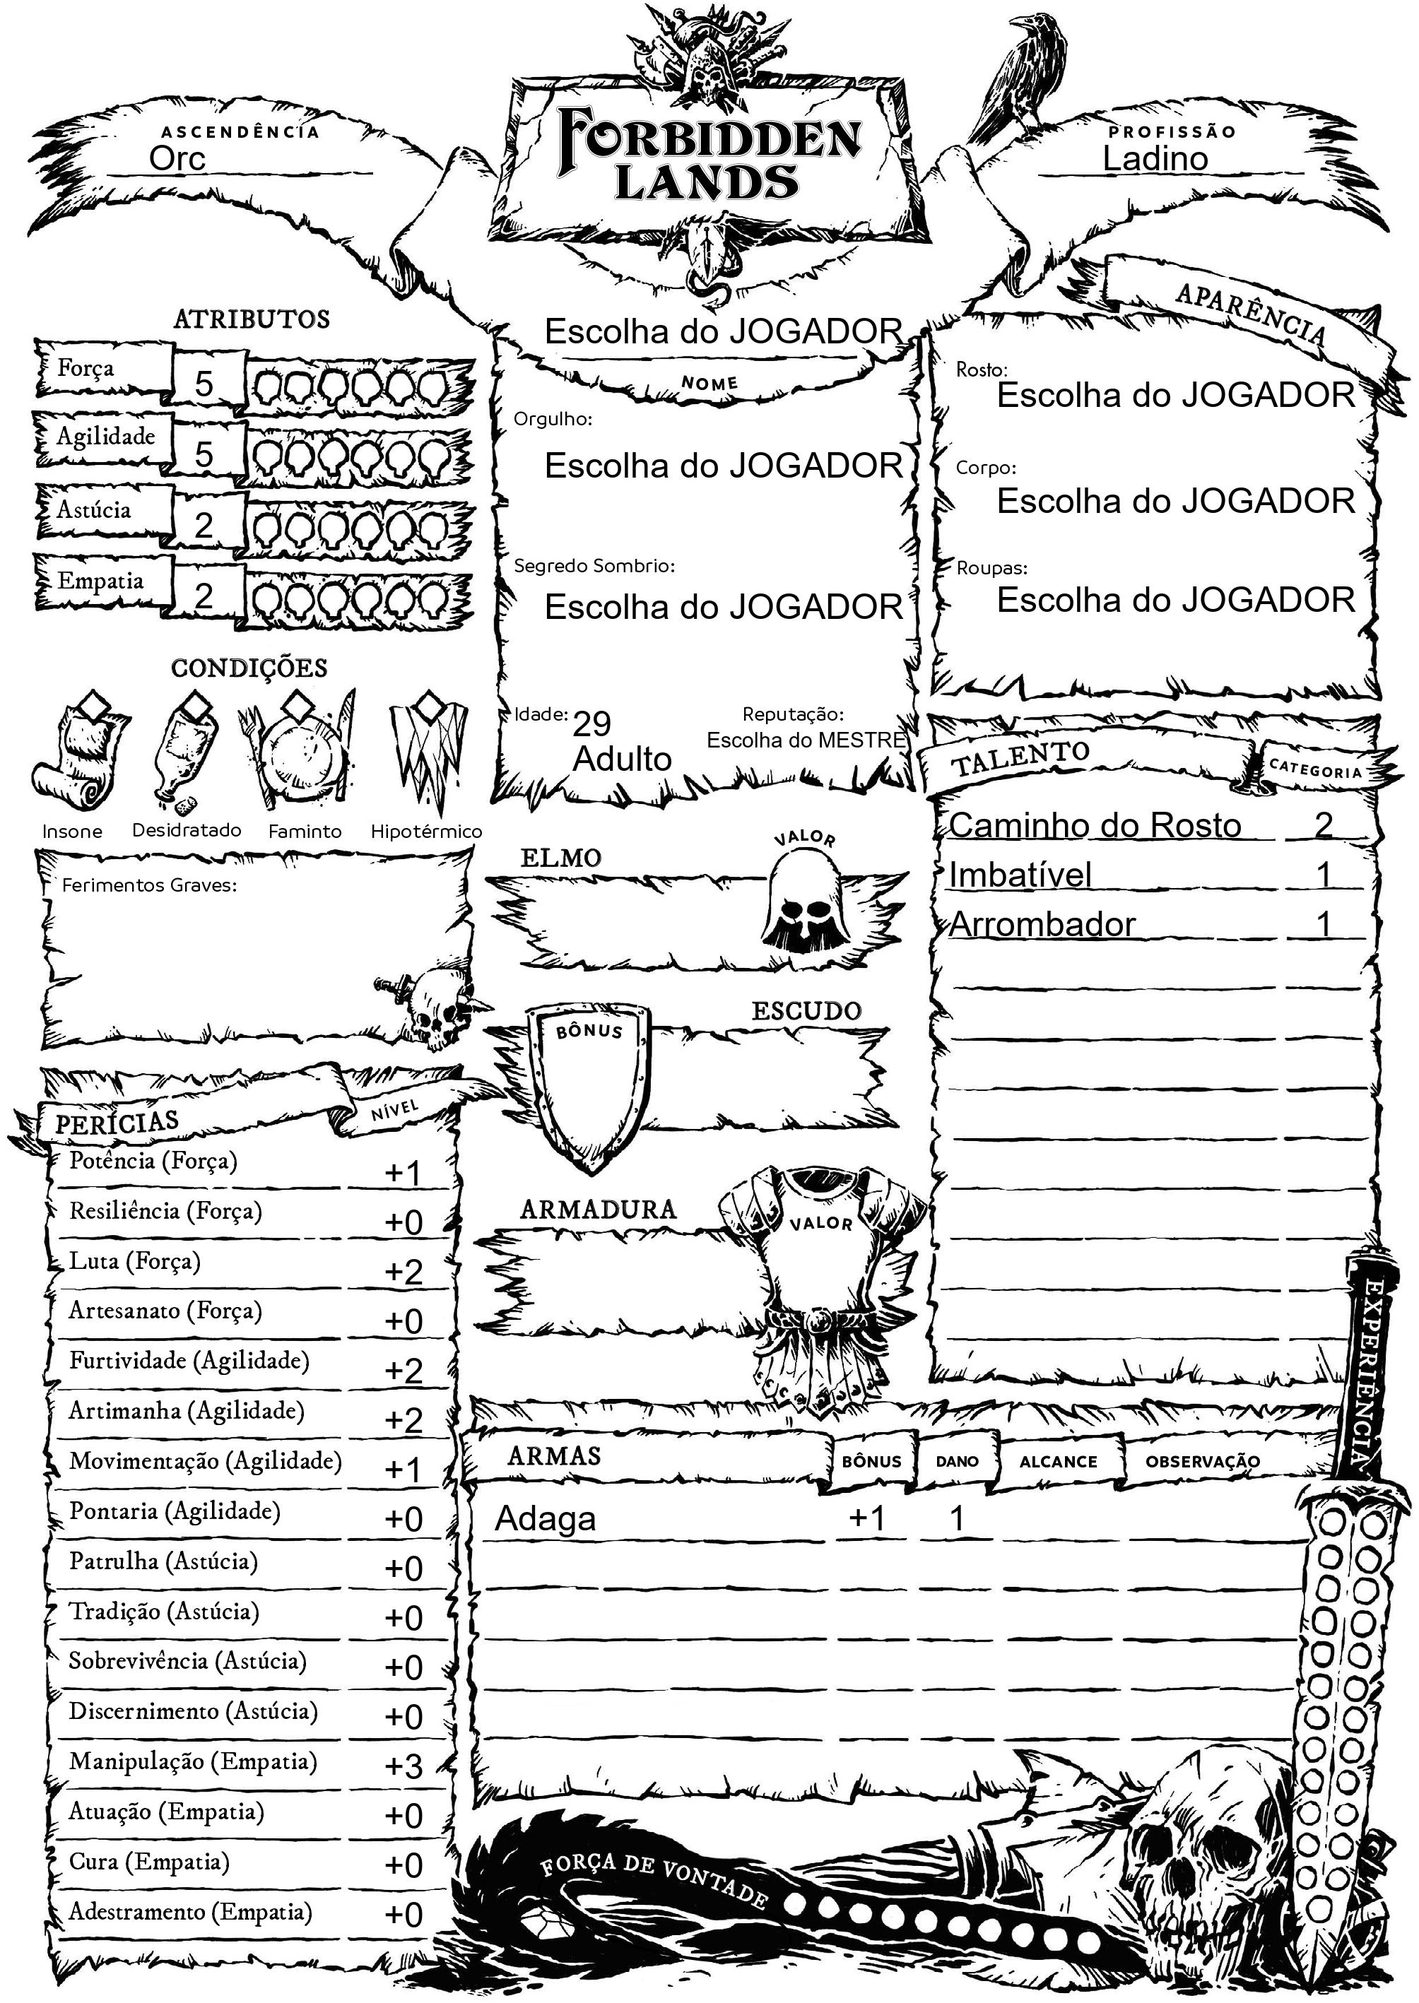
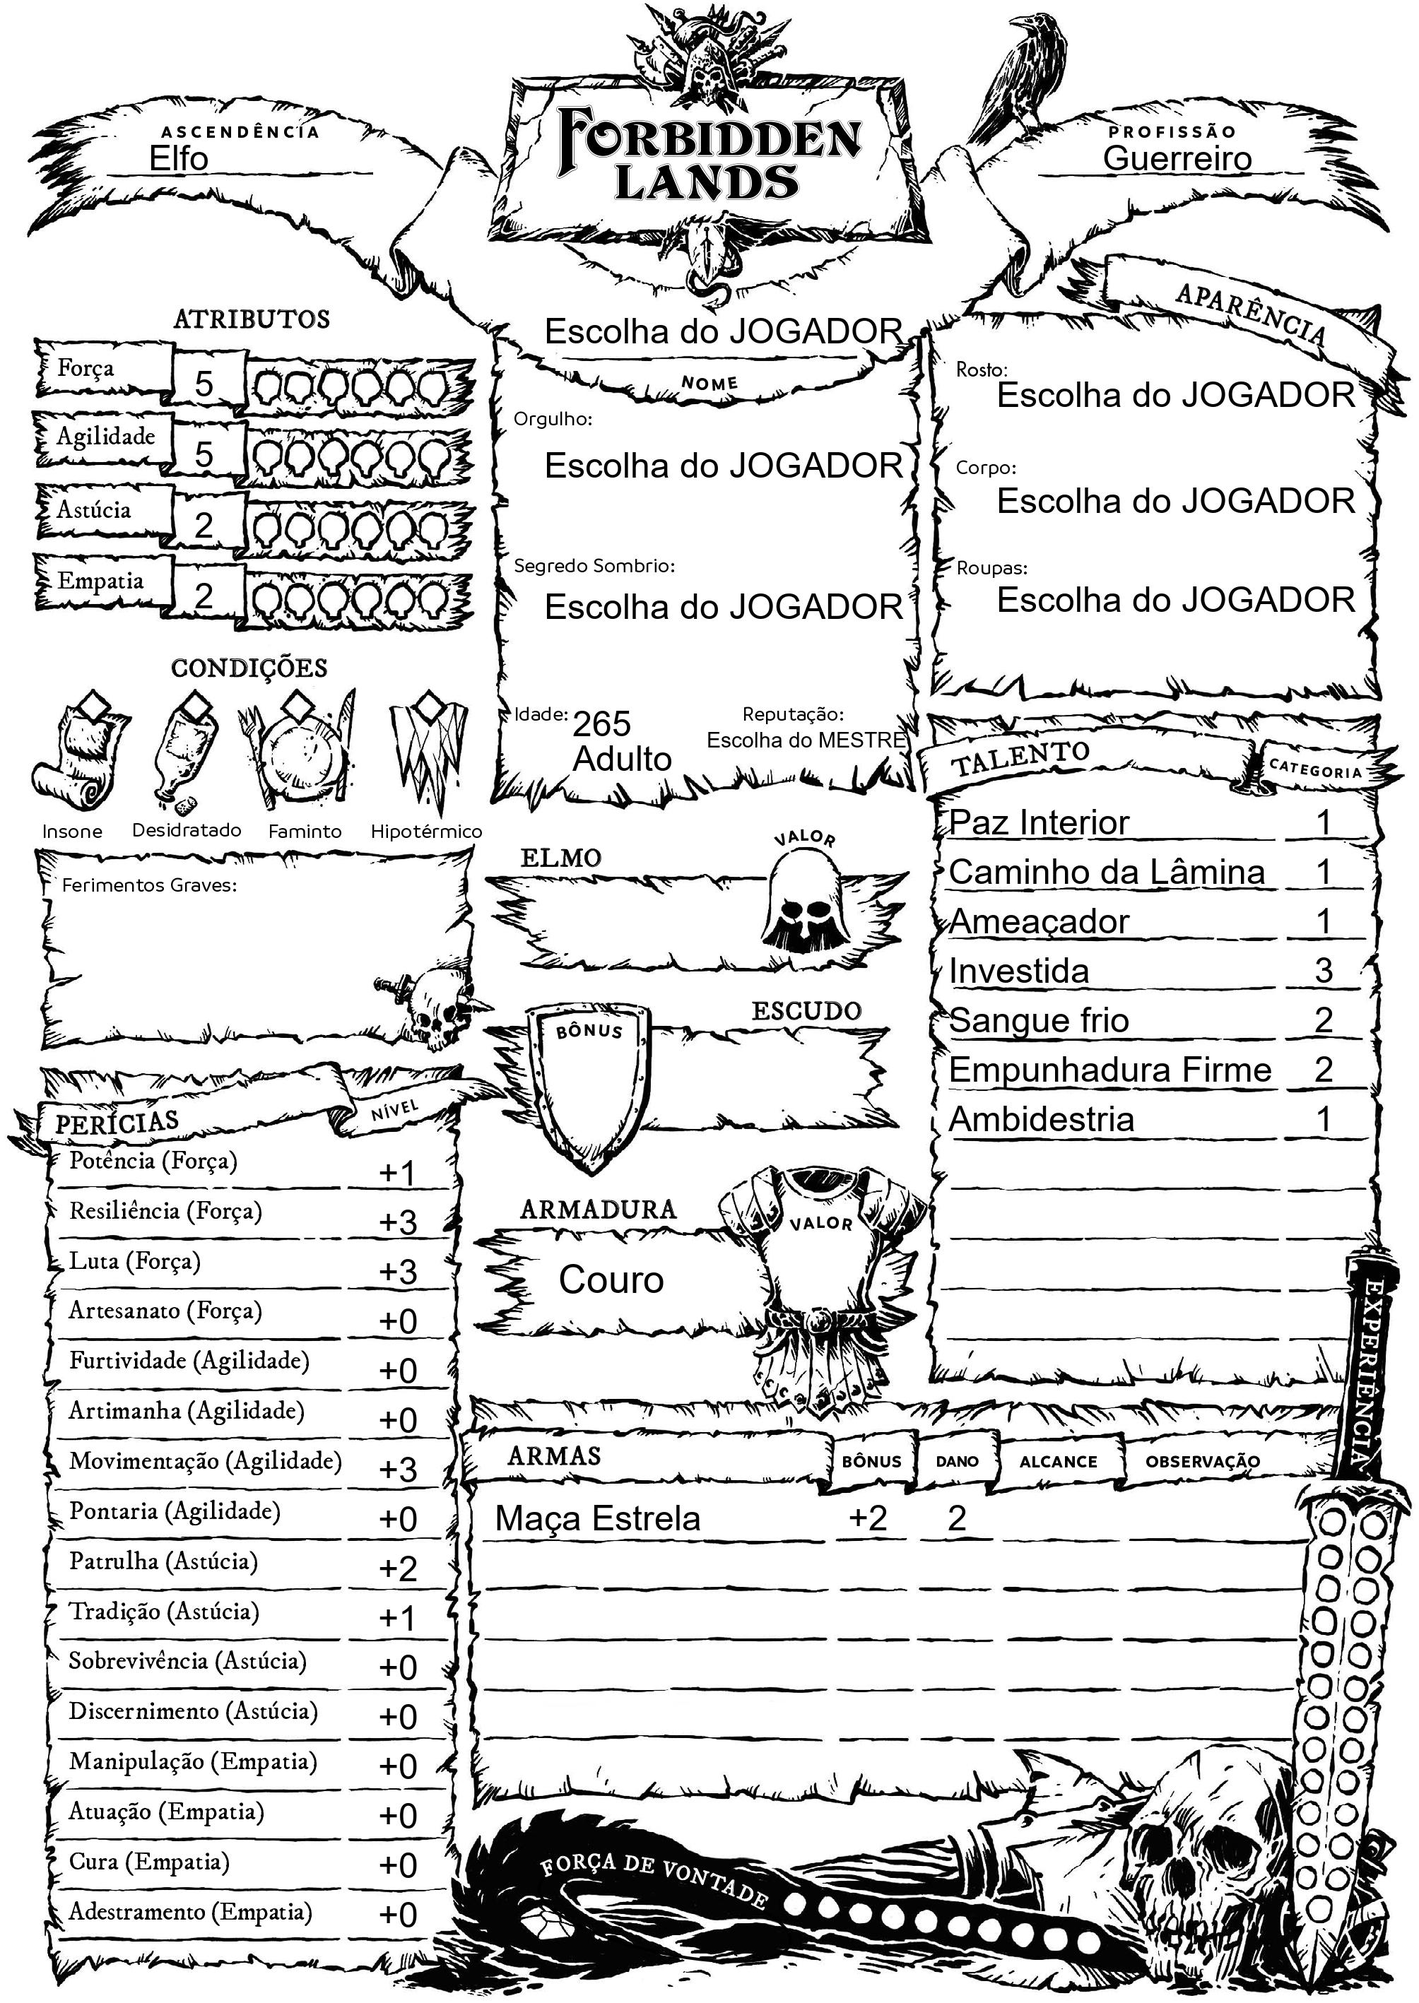
Aprimoramentos na Geração de Dados e Conclusão da Primeira Página da Ficha Foram corrigidos bugs que afetavam a geração de informações da classe Rider. Além disso, implementei a exibição das armaduras para as classes que as possuem na ficha. E por fim, concluí de forma geral a primeira página da fic

diff --git a/Modulos/util.py b/Modulos/util.py
@@ -257,19 +257,24 @@ def gerar_arma(classe):
     global artefato_musical_escolhido, arma_escolhida
     armas_disponiveis = classe_info[classe]["equipamentos"]["Arma"]
     arma_escolhida = None
+    armas_escolhidas = None
 
     # Verificar se a classe tem armas disponíveis
     if armas_disponiveis:
         if classe == "Rider":
-            arma_escolhida = random.sample(armas_disponiveis, 2)
+            armas_escolhidas = random.sample(armas_disponiveis, 2)
+            arma_escolhida = None
 
-            while ["Lança", "Machadinha"] in arma_escolhida or ["Arco Curto", "Funda"] in arma_escolhida:
-                arma_escolhida = random.sample(armas_disponiveis, 2)
+            while ["Lança", "Machadinha"] in armas_escolhidas or ["Arco Curto", "Funda"] in armas_escolhidas:
+                armas_escolhidas = random.sample(armas_disponiveis, 2)
+
+            
 
             # Se chegou aqui, então as armas escolhidas são válidas
-            equipamentos.extend(arma_escolhida)
+            equipamentos.extend(armas_escolhidas)
 
         elif classe == "Bardo":
+            armas_escolhidas = None
             arma_escolhida = classe_info[classe]["equipamentos"]["Arma"][0]  # Pega o primeiro item da lista
             artefato_musical_disponiveis = classe_info[classe]["equipamentos"]["Artefato Musical"]
             artefato_musical_escolhido = random.choice(artefato_musical_disponiveis)
@@ -278,14 +283,19 @@ def gerar_arma(classe):
             equipamentos.insert(1, artefato_musical_escolhido)
 
         elif classe == "Guerreiro":
+            armas_escolhidas = None
             arma_escolhida = random.choice(armas_1m_lista)
             equipamentos.append(arma_escolhida)
 
         else:
+            armas_escolhidas = None
             arma_escolhida = random.choice(armas_disponiveis)
             equipamentos.append(arma_escolhida)
 
-        print(f"Arma escolhida 1 etapa: {arma_escolhida}")
+        if arma_escolhida!= None:
+            print(f"Arma escolhida 1 etapa: {arma_escolhida}")
+        else:
+            print(f"Armas escolhidas 1 etapa: {armas_escolhidas}")
 
         if arma_escolhida in ["Arco"]:
             arma_escolhida = random.choice(["Arco Curto", "Arco Longo"])
@@ -298,11 +308,15 @@ def gerar_arma(classe):
             equipamentos.remove("Lança")
             equipamentos.append(arma_escolhida)
 
-        print(f"Arma escolhida 2 etapa: {arma_escolhida}")
+        if arma_escolhida != None:
+            print(f"Arma escolhida 2 etapa: {arma_escolhida}")
+        else:
+            print(f"Armas escolhidas 2 etapa: {armas_escolhidas}")
+
         if "artefato_musical" in equipamentos:
             print(f"Artefato musical escolhido: {artefato_musical_escolhido}")
 
-    return arma_escolhida
+    return arma_escolhida, armas_escolhidas
 
 # Inicialize um dicionario vazio para mapear os talentos e os niveis deles
 talentos_e_niveis = {}
@@ -318,6 +332,8 @@ def dividir_XP(talentos_escolhidos, pericias_distribuidas, classe, pericias):
     #Declarando lista de pericias e talentos para o while que vai acontecer
     pericias_disponiveis = list(pericias.keys())
     talentos_disponiveis = list(talentos_gerais[classe])
+
+    
 
     # Variáveis para controlar se todas as opções estão no máximo
     todas_pericias_maximo = False
@@ -396,7 +412,7 @@ def dividir_XP(talentos_escolhidos, pericias_distribuidas, classe, pericias):
 
 
 # Funcao para gerar informacoes da ficha
-def gerar_info_ficha(classe, raca, atributos_chave, idade, faixa_etaria, atributos_randomizados, talentos_escolhidos, pericias_distribuidas):
+def gerar_info_ficha(classe, raca, atributos_chave, idade, faixa_etaria, atributos_randomizados, talentos_escolhidos, pericias_distribuidas, armas_escolhidas):
 
     # Rolando quantidade de prata
     prata_rolada = rolar_dados_prata(classe_info[classe]["dados_recurso"]["Prata"])
@@ -410,10 +426,17 @@ def gerar_info_ficha(classe, raca, atributos_chave, idade, faixa_etaria, atribut
         # Vai ser randomizado todos os itens, inclusive as duas flechas que são os 2 itens iniciais da lista de comercio
         itens_randomizados = random.sample(itens_comercio, quantidade_itens)  # Randomiza eles
         equipamentos.extend(itens_randomizados)  # adiciona eles nos equipamentos
+
+    elif armas_escolhidas in ["Arco Curto", "Arco Longo"]:
+        # Vai ser randomizado todos os itens, inclusive as duas flechas que são os 2 itens iniciais da lista de comercio
+        itens_randomizados = random.sample(itens_comercio, quantidade_itens)  # Randomiza eles
+        equipamentos.extend(itens_randomizados)  # adiciona eles nos equipamentos
+
     else:
         itens_randomizados = random.sample(itens_comercio[2:], quantidade_itens)  # Randomiza eles só que como não tem o arco, ele não considera os 2 itens de flechas
         equipamentos.extend(itens_randomizados)  # adiciona eles nos equipamentos
 
+    
     print(f"itens_randomizados: {itens_randomizados,}")
 
     # Criando variaveis Necessarias
@@ -422,6 +445,8 @@ def gerar_info_ficha(classe, raca, atributos_chave, idade, faixa_etaria, atribut
     info_armaduras = lista_armaduras.get("armadura_disponivel")
     Dx_comida = classe_info[classe]['dados_recurso']['Comida']
     Dx_agua = classe_info[classe]['dados_recurso']['Água']
+    armas_escolhidas_1 = None
+    armas_escolhidas_2 = None
 
     # Printando a ficha do personagem
     print("\n--- Ficha do personagem ---")
@@ -443,14 +468,14 @@ def gerar_info_ficha(classe, raca, atributos_chave, idade, faixa_etaria, atribut
     print(f"Equipamentos: {', '.join(equipamentos)}")
     # Dividindo a variavel arma escolhida em dois ja que o Rider tem duas armas
     if classe == "Rider":
-        arma_escolhida_1, arma_escolhida_2 = arma_escolhida  # Separando a variavel em 2
+        armas_escolhidas_1, armas_escolhidas_2 = armas_escolhidas  # Separando a variavel em 2
 
-        info_arma_1 = lista_armas_FINAL.get(arma_escolhida_1)  # Criando as infos de cada
-        info_arma_2 = lista_armas_FINAL.get(arma_escolhida_2)  # Criando as infos de cada
+        info_arma_1 = lista_armas_FINAL.get(armas_escolhidas_1)  # Criando as infos de cada
+        info_arma_2 = lista_armas_FINAL.get(armas_escolhidas_2)  # Criando as infos de cada
 
-        print(f"Sua 1º arma:", arma_escolhida_1)
+        print(f"Sua 1º arma:", armas_escolhidas_1)
         print(f"Infos da sua 1º arma:", info_arma_1)
-        print(f"Sua 2º arma: ", arma_escolhida_2)
+        print(f"Sua 2º arma: ", armas_escolhidas_2)
         print(f"Infos da sua 2º arma:", info_arma_2)
 
     else:
@@ -477,3 +502,6 @@ def gerar_info_ficha(classe, raca, atributos_chave, idade, faixa_etaria, atribut
 
     print(f"Prata: {prata_rolada}")
     print("--------------------------\n")
+
+    if classe == "Rider":
+        return armas_escolhidas_1, armas_escolhidas_2, info_arma_1, info_arma_2

diff --git a/Modulos/UtilMain.py b/Modulos/UtilMain.py
@@ -11,7 +11,8 @@ def Ficha_Random():
     print(f"Raca escolhida: {raca}")
 
     # Gerar classe aleatoria
-    classe = gerar_classe(raca,racas_info,classes)
+    #classe = gerar_classe(raca,racas_info,classes)
+    classe = "Guerreiro"
     print(f"Classe: {classe}")
 
     # Funcao para obter atributos chave
@@ -27,9 +28,16 @@ def Ficha_Random():
     pericias_distribuidas = distribuir_pontos_pericia(faixa_etaria, classe)
     print(f"Pericias distribuidas: {pericias_distribuidas}")
 
-    # Gerar arma
-    arma_escolhida = gerar_arma(classe)
-    print(f"arma_escolhida_final: {arma_escolhida}")
+    #Gerar armas
+    arma_escolhida, armas_escolhidas = gerar_arma(classe)
+
+    '''
+    if classe == "Rider":
+        armas_escolhidas = gerar_arma(classe)
+        print(f"arma_escolhida_final: {armas_escolhidas}")
+    else:
+        arma_escolhida = gerar_arma(classe)
+        print(f"arma_escolhida_final: {arma_escolhida}")'''
 
     # Gerar talentos
     talentos_escolhidos = escolher_talentos(classe, raca, faixa_etaria)
@@ -44,14 +52,31 @@ def Ficha_Random():
     else:
         pass
 
+    info_armas = None
+    info_armas_formatado = None
+    if classe != "Rider":
+        info_armas = lista_armas_FINAL.get(arma_escolhida)
+        info_armas_formatado = f"{info_armas['Bonus']} {info_armas['Dano']}"
+    
+
     prata_rolada = rolar_dados_prata(classe_info[classe]["dados_recurso"]["Prata"])
-    info_armas = lista_armas_FINAL.get(arma_escolhida)
     Dx_comida = classe_info[classe]['dados_recurso']['Comida']
     Dx_agua = classe_info[classe]['dados_recurso']['Água']
-    info_armas_formatado = f"{info_armas['Bonus']} {info_armas['Dano']}"
 
-    # Gerar ficha
-    gerar_info_ficha(classe, raca, atributos_chave, idade, faixa_etaria, atributos_randomizados, talentos_escolhidos, pericias_distribuidas)
+
+    if classe == "Rider":
+        # Gerar ficha com return
+        arma_escolhida_1, arma_escolhida_2, info_arma_1, info_arma_2 = gerar_info_ficha(classe, raca, atributos_chave,
+                                                      idade, faixa_etaria, atributos_randomizados, talentos_escolhidos,
+                                                                                pericias_distribuidas, armas_escolhidas)
+        info_armas_formatado_1 = f"{info_arma_1['Bonus']} {info_arma_1['Dano']}"
+        info_armas_formatado_2 = f"{info_arma_2['Bonus']} {info_arma_2['Dano']}"
+        bonus_arma_1, dano_arma_1 = info_armas_formatado_1.split()
+        bonus_arma_2, dano_arma_2 = info_armas_formatado_2.split()
+
+    else:
+        gerar_info_ficha(classe, raca, atributos_chave,idade, faixa_etaria, atributos_randomizados,talentos_escolhidos,
+                         pericias_distribuidas, armas_escolhidas)
 
 #=============================================================================================================================================
 
@@ -77,7 +102,9 @@ def Ficha_Random():
     pericias_distribuidas = {k.lower(): v for k, v in pericias_distribuidas.items()}
     print(pericias_distribuidas)
 
-    bonus_arma, dano_arma = info_armas_formatado.split()
+    if classe != "Rider":
+        bonus_arma, dano_arma = info_armas_formatado.split()
+
 
 #=======================================================================================================================
 
@@ -117,9 +144,21 @@ def Ficha_Random():
             valor_formatado = f"+{valor_pericia}"
             adicionar_texto_na_ficha(imagem, valor_formatado, cord)
 
-        elif variavel == "info_armas_cord":
+        elif variavel == "info_armas_cord" and classe != "Rider":
             valor_formatado = f"{bonus_arma}      {dano_arma}"
             adicionar_texto_na_ficha(imagem, valor_formatado, cord)
+
+        elif variavel == "info_armas_cord" and classe == "Rider":
+            espacamento = 70
+            valor_formatado_1 = f"{bonus_arma_1}      {dano_arma_1}"
+            adicionar_texto_na_ficha(imagem, valor_formatado_1, cord)
+            valor_formatado_2 = f"{bonus_arma_2}      {dano_arma_2}"
+            adicionar_texto_na_ficha(imagem, valor_formatado_2, cord, espacamento)
+
+        elif variavel == "arma_escolhida_cord" and classe == "Rider":
+            espacamento = 70
+            adicionar_texto_na_ficha(imagem, arma_escolhida_1, cord)
+            adicionar_texto_na_ficha(imagem, arma_escolhida_2, cord, espacamento)
 
         else:
             # Obtenha a chave correspondente em vars
@@ -130,6 +169,12 @@ def Ficha_Random():
             if not isinstance(valor, (list, dict)):
                 adicionar_texto_na_ficha(imagem, str(valor), cord)
 
+    #Por a armadura do guerreiro na ficha
+    if classe == "Guerreiro":
+        Armadura_couro_str = ("Couro")
+        escrever_armadura(imagem, Armadura_couro_str, coordenadas_armadura)
+
+    #Por na ficha onde a escolha vai ser do jogador ou do mestre
     escolha_do_jogador = 'Escolha do JOGADOR'
     escolha_do_mestre = 'Escolha do MESTRE'
     escrever_texto_em_varias_coordenadas_JOGADOR(imagem, escolha_do_jogador, coordenadas_pag1_User)
@@ -143,9 +188,4 @@ def Ficha_Random():
 
     # Feche a imagem
     imagem.close()
-#=============================================================================================================================================
-
-
-
-
 #=============================================================================================================================================

diff --git a/Modulos/FichaCoordenadas.py b/Modulos/FichaCoordenadas.py
@@ -10,33 +10,34 @@ coordenadas_pag1 = {
     "Inteligência_cord": (275, 715),
     "Empatia_cord": (275, 815),
     #====== Talento =======#
-    "talento_cord": (1342, 1139),
-    "nivel_talento_cord": (1860, 1139),
-    #====== Talento =======#
-    "Potencia_cord": (543, 1632),
-    "Resiliência_cord": (543, 1702),
-    "Luta_cord": (543, 1772),
-    "Artesanato_cord": (543, 1842),
-    "Furtividade_cord": (543, 1912),
-    "Artimanha_cord": (543, 1982),
-    "Movimentação_cord": (543, 2052),
-    "Pontaria_cord": (543, 2122),
-    "Patrulha_cord": (543, 2192),
-    "Tradição_cord": (543, 2262),
-    "Sobrevivência_cord": (543, 2332),
-    "Discernimento_cord": (543, 2402),
-    "Manipulação_cord": (543, 2472),
-    "Atuação_cord": (543, 2542),
-    "Cura_cord": (543, 2612),
-    "Adestramento_cord": (543, 2682),
+    "talento_cord": (1342, 1135),
+    "nivel_talento_cord": (1860, 1135),
+    #====== Pericias =======#
+    "Potencia_cord": (535, 1632),
+    "Resiliência_cord": (535, 1702),
+    "Luta_cord": (535, 1772),
+    "Artesanato_cord": (535, 1842),
+    "Furtividade_cord": (535, 1912),
+    "Artimanha_cord": (535, 1982),
+    "Movimentação_cord": (535, 2052),
+    "Pontaria_cord": (535, 2122),
+    "Patrulha_cord": (535, 2192),
+    "Tradição_cord": (535, 2262),
+    "Sobrevivência_cord": (535, 2332),
+    "Discernimento_cord": (535, 2402),
+    "Manipulação_cord": (535, 2472),
+    "Atuação_cord": (535, 2542),
+    "Cura_cord": (535, 2612),
+    "Adestramento_cord": (535, 2682),
     #======================#
     "idade_cord": (810, 996),
     "faixa_etaria_cord": (810, 1045),
     "arma_escolhida_cord": (700, 2120),
-    "info_armas_cord": (1200, 2120),
+    "info_armas_cord": (1200, 2120)
     #======================#
 }
 
+coordenadas_armadura = [(790, 1780)]
 coordenadas_pag1_User = [(770, 440), (770, 630), (770, 830), (1410, 530), (1410, 680), (1410, 820)]
 coordenadas_pag1_Mestre = [(1000, 1030)]
 

diff --git a/Modulos/TestsMain.py b/Modulos/TestsMain.py
@@ -5,7 +5,8 @@ raca, raca_info = gerar_raca()
 print(f"Raca escolhida: {raca}")
 
 # Gerar classe aleatoria
-classe = gerar_classe(raca,racas_info,classes)
+#classe = gerar_classe(raca,racas_info,classes)
+classe = "Rider"
 print(f"Classe escolhida: {classe}")
 
 
@@ -27,7 +28,12 @@ pericias_distribuidas = distribuir_pontos_pericia(faixa_etaria, classe)
 print(f"Pericias distribuidas: {pericias_distribuidas}")
 
 # Gerar arma
-gerar_arma(classe)
+if classe == "Rider":
+    armas_escolhidas = gerar_arma(classe)
+    print(f"arma_escolhida_final: {armas_escolhidas}")
+else:
+    arma_escolhida = gerar_arma(classe)
+    print(f"arma_escolhida_final: {arma_escolhida}")
 
 # Gerar talentos
 talentos_escolhidos = escolher_talentos(classe, raca, faixa_etaria)
@@ -43,6 +49,5 @@ else:
     pass
 
 # Gerar ficha
-gerar_info_ficha(classe, raca, atributos_chave, idade, faixa_etaria, atributos_randomizados, talentos_escolhidos, pericias_distribuidas)
-
+gerar_info_ficha(classe, raca, atributos_chave, idade, faixa_etaria, atributos_randomizados, talentos_escolhidos, pericias_distribuidas, armas_escolhidas)
 #===============================================================================

diff --git a/Modulos/utilFichaJPG.py b/Modulos/utilFichaJPG.py
@@ -44,3 +44,16 @@ def escrever_texto_em_varias_coordenadas_MESTRE(imagem, texto, coordenadas):
     # Itere sobre as coordenadas e escreva o texto em cada uma delas
     for coord in coordenadas:
         draw.text(coord, texto, fill=cor_do_texto, font=fonte)
+
+def escrever_armadura(imagem, texto, coordenadas):
+    draw = ImageDraw.Draw(imagem)
+    tamanho_da_fonte = 55
+
+    fonte = ImageFont.truetype("arial", tamanho_da_fonte)
+
+    # Especifique a cor do texto (por exemplo, preto)
+    cor_do_texto = (0, 0, 0)  # RGB (preto)
+
+    # Itere sobre as coordenadas e escreva o texto em cada uma delas
+    for coord in coordenadas:
+        draw.text(coord, texto, fill=cor_do_texto, font=fonte)

diff --git a/Modulos/classes.py b/Modulos/classes.py
@@ -46,7 +46,7 @@ classe_info = {
         "atributo_chave": "Agilidade",
         "pericias": ["Resiliência", "Luta", "Pontaria", "Sobrevivência", "Adestramento"],
         "equipamentos": {
-            "Arma": ["Lança", "Machadinha","Arco Curto", "Funda"],
+            "Arma": ["Lança Curta", "Machadinha","Arco Curto", "Funda"],
             "Armadura": None,
             "Itens": 1,
             "Artefato Musical": None,
